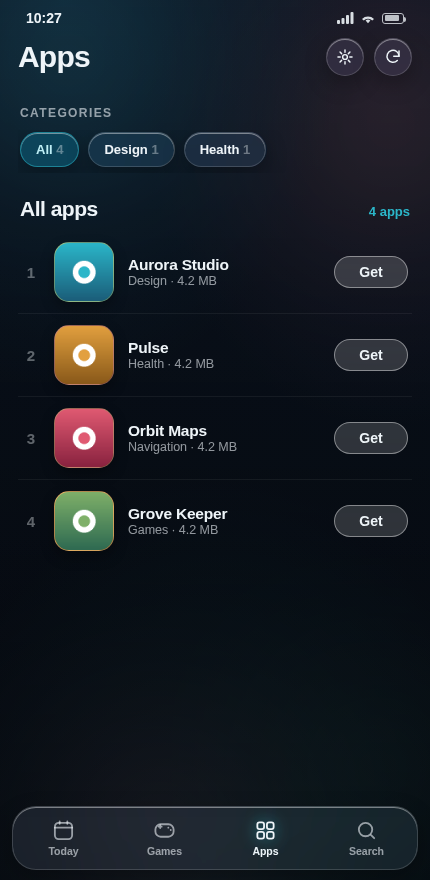
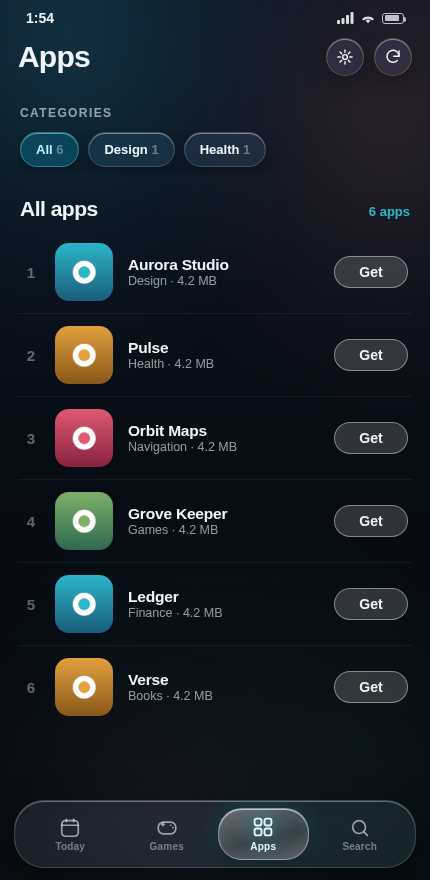
Tab bar: floating capsule with a sliding glass lens
The active tab now carries a frosted 'lens' that springs between
tabs, matching the liquid glass reference. Screenshots refreshed.

diff --git a/assets/index.html b/assets/index.html
@@ -133,13 +133,25 @@ input{font-family:inherit}
 .shot .ph{position:absolute;inset:14px;border-radius:12px;border:1px dashed rgba(255,255,255,.16);transition:opacity .25s}
 .shot span{position:absolute;left:0;right:0;bottom:12px;text-align:center;font-size:11px;color:var(--dimmer);letter-spacing:1px;text-transform:uppercase;transition:opacity .25s}
 .shot.has .ph,.shot.has span{opacity:0}
-.tabbar{position:absolute;left:12px;right:12px;bottom:calc(10px + var(--safe-b));height:64px;border-radius:24px;
-  display:flex;align-items:center;justify-content:space-around;z-index:40}
-.tab{display:flex;flex-direction:column;align-items:center;gap:3px;font-size:10.5px;font-weight:700;color:var(--dim);
-  padding:8px 12px;border-radius:16px;transition:color .2s;flex:1}
-.tab svg{width:23px;height:23px}
-.tab.on{color:var(--ink)}
-.tab.on svg{filter:drop-shadow(0 0 8px rgba(43,182,201,.7))}
+/* floating capsule with a glass "lens" that slides between tabs */
+.tabbar{position:absolute;left:14px;right:14px;bottom:calc(12px + var(--safe-b));height:68px;border-radius:30px;
+  display:flex;align-items:center;padding:0 7px;z-index:40;overflow:hidden;
+  box-shadow:inset 0 1px 0 rgba(255,255,255,.34),0 14px 34px rgba(0,0,0,.5)}
+.lens{position:absolute;top:7px;bottom:7px;left:7px;width:64px;border-radius:24px;z-index:0;pointer-events:none;
+  background:linear-gradient(165deg,rgba(255,255,255,.28),rgba(255,255,255,.05) 58%,rgba(255,255,255,.16));
+  border:1px solid rgba(255,255,255,.4);
+  box-shadow:inset 0 1px 0 rgba(255,255,255,.65),inset 0 -8px 14px rgba(255,255,255,.07),
+             0 6px 18px rgba(0,0,0,.4),0 0 24px rgba(43,182,201,.25);
+  backdrop-filter:blur(12px) saturate(190%);-webkit-backdrop-filter:blur(12px) saturate(190%);
+  transition:left .44s cubic-bezier(.34,1.46,.5,1),width .44s cubic-bezier(.34,1.46,.5,1)}
+.tab{position:relative;z-index:1;display:flex;flex-direction:column;align-items:center;justify-content:center;gap:2px;
+  font-size:10px;font-weight:800;letter-spacing:.2px;color:var(--dim);flex:1;height:100%;border-radius:24px;
+  transition:color .25s}
+.tab svg{width:22px;height:22px;transition:transform .32s cubic-bezier(.34,1.4,.5,1)}
+.tab .lbl{opacity:.7;transition:opacity .25s}
+.tab.on{color:#e2f8fc}
+.tab.on .lbl{opacity:1}
+.tab.on svg{transform:translateY(-1px) scale(1.08);filter:drop-shadow(0 0 10px rgba(43,182,201,.8))}
 
 .scrim{position:absolute;inset:0;background:rgba(3,6,10,.55);backdrop-filter:blur(2px);opacity:0;visibility:hidden;transition:.3s;z-index:60}
 .scrim.on{opacity:1;visibility:visible}
@@ -230,15 +242,20 @@ input{font-family:inherit}
     <section class="view" id="view-search"></section>
   </div>
 
-  <nav class="tabbar g">
+  <nav class="tabbar g" id="tabbar">
+    <span class="lens" id="tabLens" aria-hidden="true"></span>
     <button class="tab on" data-view="today">
-      <svg viewBox="0 0 24 24" fill="none" stroke="currentColor" stroke-width="1.9" stroke-linecap="round" stroke-linejoin="round"><rect x="3" y="4" width="18" height="17" rx="4"/><path d="M8 2.5V5M16 2.5V5M3 9h18"/></svg>Today</button>
+      <svg viewBox="0 0 24 24" fill="none" stroke="currentColor" stroke-width="1.9" stroke-linecap="round" stroke-linejoin="round"><rect x="3" y="4" width="18" height="17" rx="4"/><path d="M8 2.5V5M16 2.5V5M3 9h18"/></svg>
+      <span class="lbl">Today</span></button>
     <button class="tab" data-view="games">
-      <svg viewBox="0 0 24 24" fill="none" stroke="currentColor" stroke-width="1.9" stroke-linecap="round" stroke-linejoin="round"><path d="M6 8h3M7.5 6.5v3M16 9h.01M18.5 11.5h.01"/><rect x="2.5" y="5.5" width="19" height="13" rx="5.5"/></svg>Games</button>
+      <svg viewBox="0 0 24 24" fill="none" stroke="currentColor" stroke-width="1.9" stroke-linecap="round" stroke-linejoin="round"><path d="M6 8h3M7.5 6.5v3M16 9h.01M18.5 11.5h.01"/><rect x="2.5" y="5.5" width="19" height="13" rx="5.5"/></svg>
+      <span class="lbl">Games</span></button>
     <button class="tab" data-view="apps">
-      <svg viewBox="0 0 24 24" fill="none" stroke="currentColor" stroke-width="1.9" stroke-linecap="round" stroke-linejoin="round"><rect x="3.5" y="3.5" width="7" height="7" rx="2.2"/><rect x="13.5" y="3.5" width="7" height="7" rx="2.2"/><rect x="3.5" y="13.5" width="7" height="7" rx="2.2"/><rect x="13.5" y="13.5" width="7" height="7" rx="2.2"/></svg>Apps</button>
+      <svg viewBox="0 0 24 24" fill="none" stroke="currentColor" stroke-width="1.9" stroke-linecap="round" stroke-linejoin="round"><rect x="3.5" y="3.5" width="7" height="7" rx="2.2"/><rect x="13.5" y="3.5" width="7" height="7" rx="2.2"/><rect x="3.5" y="13.5" width="7" height="7" rx="2.2"/><rect x="13.5" y="13.5" width="7" height="7" rx="2.2"/></svg>
+      <span class="lbl">Apps</span></button>
     <button class="tab" data-view="search">
-      <svg viewBox="0 0 24 24" fill="none" stroke="currentColor" stroke-width="1.9" stroke-linecap="round"><circle cx="11" cy="11" r="7"/><path d="m20 20-3.2-3.2"/></svg>Search</button>
+      <svg viewBox="0 0 24 24" fill="none" stroke="currentColor" stroke-width="1.9" stroke-linecap="round" stroke-linejoin="round"><circle cx="11" cy="11" r="7"/><path d="m20 20-3.2-3.2"/></svg>
+      <span class="lbl">Search</span></button>
   </nav>
 
   <div class="toast g" id="toast"></div>
@@ -829,7 +846,24 @@ function switchTab(v){
   if(v === 'games') renderCategoryView('games','');
   if(v === 'apps') renderCategoryView('apps','');
   if(v === 'today' && S.ready) renderToday();
+  moveLens(false);
 }
+
+/* Slide the glass lens to sit under whichever tab is active. */
+function moveLens(instant){
+  const bar = document.getElementById('tabbar');
+  const lens = document.getElementById('tabLens');
+  if(!bar || !lens) return;
+  const active = bar.querySelector('.tab.on');
+  if(!active) return;
+  if(instant) lens.style.transition = 'none';
+  lens.style.left = (active.offsetLeft + 3) + 'px';
+  lens.style.width = Math.max(0, active.offsetWidth - 6) + 'px';
+  if(instant){
+    requestAnimationFrame(function(){ lens.style.transition = ''; });
+  }
+}
+window.addEventListener('resize', function(){ moveLens(true); });
 
 /* ---------- events ---------- */
 document.addEventListener('click', function(e){
@@ -947,6 +981,7 @@ tickClock(); setInterval(tickClock, 20000);
 })();
 
 boot();
+requestAnimationFrame(function(){ moveLens(true); });
 </script>
 </body>
 </html>
